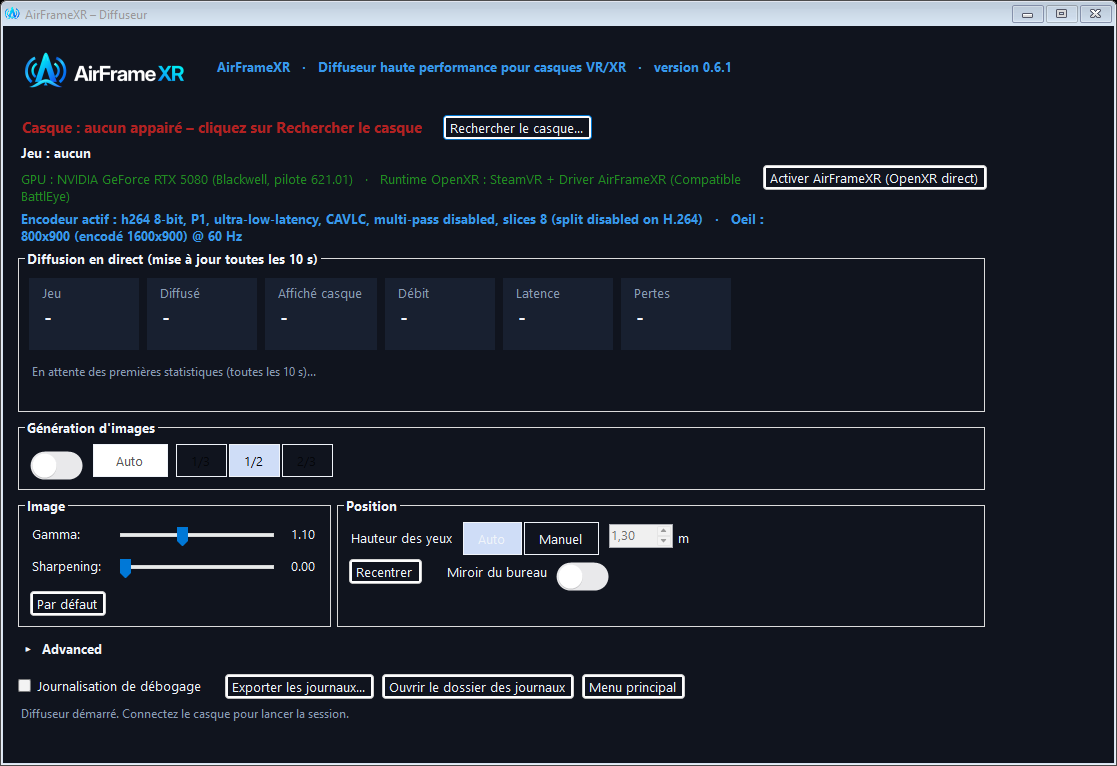
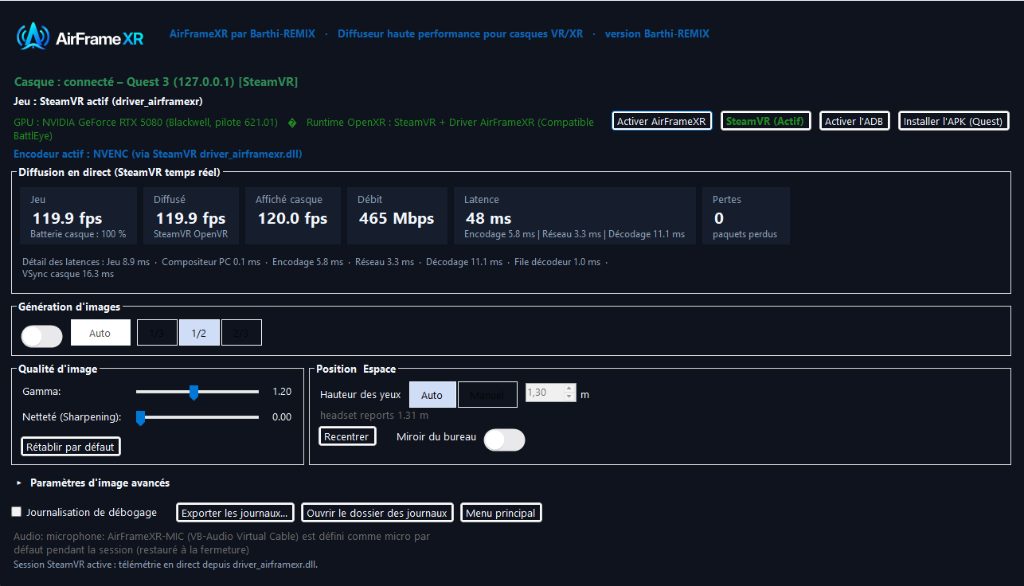
Update Live Streamer screenshot in README

Changed region(s): [[0.0, 0.0, 1.0, 1.0], [0.6875, 0.3379, 0.75, 0.43]]

diff --git a/README.md b/README.md
@@ -1,4 +1,4 @@
-<div align="center">
+<div align="center">
 
 <img src="https://raw.githubusercontent.com/BarthiGame/AirFrameXR-REMIX-BarThi/main/docs/images/banner.png" alt="AirFrameXR REMIX BarThi Banner" width="720" />
 
@@ -55,7 +55,7 @@ This **REMIX** edition is built upon the extraordinary engineering of the open-s
 <img src="https://raw.githubusercontent.com/BarthiGame/AirFrameXR-REMIX-BarThi/main/docs/images/screen_launcher.png" alt="AirFrameXR Launcher" width="780" />
 
 ### 📡 Live Streamer & Real-Time Telemetry (`streamer.exe`)
-<img src="https://raw.githubusercontent.com/BarthiGame/AirFrameXR-REMIX-BarThi/main/docs/images/screen_streamer.png" alt="AirFrameXR Streamer" width="780" />
+<img src="https://raw.githubusercontent.com/BarthiGame/AirFrameXR-REMIX-BarThi/main/docs/images/screen_streamer_steamvr.png" alt="AirFrameXR Streamer" width="780" />
 
 ### ⚙ Unlocked Settings & Audio/NVENC Tuning (`configure.exe`)
 <img src="https://raw.githubusercontent.com/BarthiGame/AirFrameXR-REMIX-BarThi/main/docs/images/screen_configure.png" alt="AirFrameXR Configuration" width="780" />
